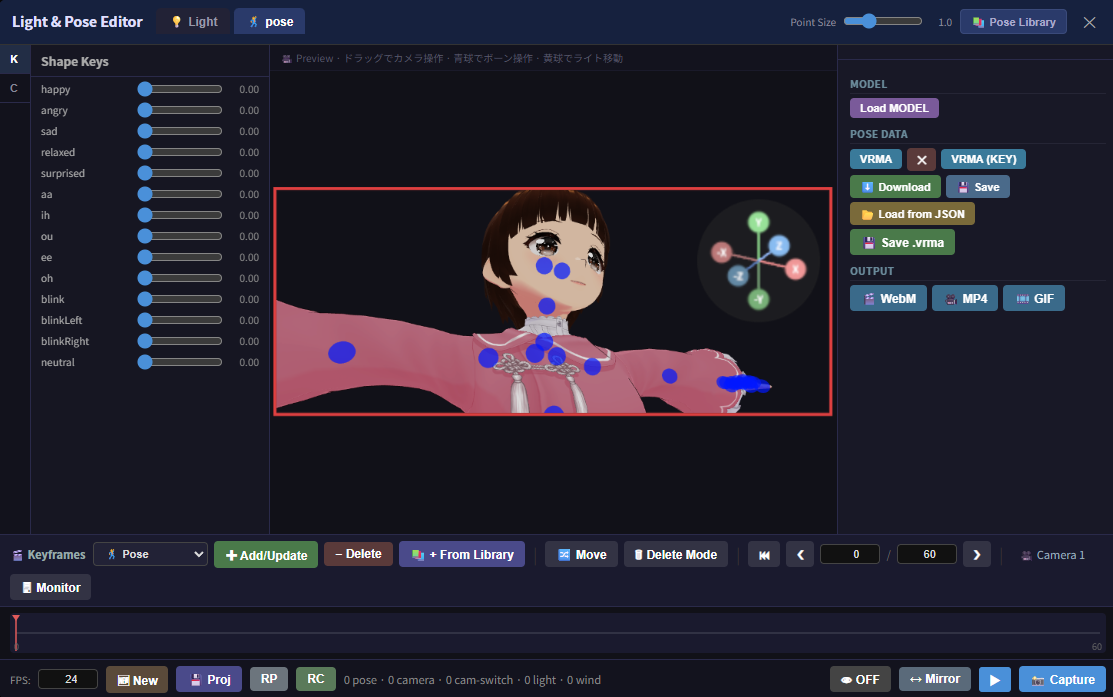
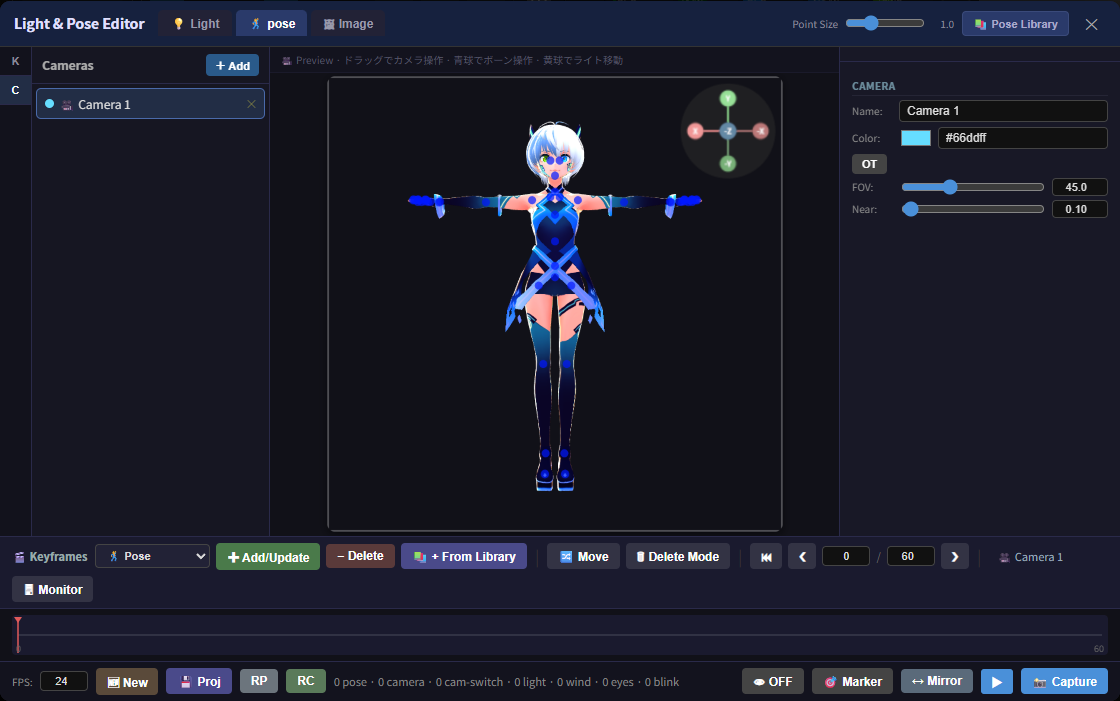
v1.50.2: Light & Pose Editor表示中の3Dプレビューずれを修正、README・スクリーンショットをvrm-pose-editor v0.21.0に合わせて更新

diff --git a/README_en.md b/README_en.md
@@ -34,7 +34,7 @@ A manga page creation SPA (single-page application) that runs on top of ComfyUI.
 - **Shape drawing (Draw)** — Draw rectangles, ellipses, lines, curves, polygons, vector curves, chains, ropes, and My Curve directly onto an SVG layer. Polygons: click to add vertices, click near the start point to close. Vector curves: click to add nodes connected by a smooth spline, click near the start point to close as a filled shape, or press Enter to commit as an open line. Fills (rectangles, ellipses, polygons, vector curves, etc.) support gradients, textures (with configurable X/Y offset that follows the shape when moved or resized), and no-fill in addition to solid colors. Converting a shape to PNG preserves these fills as well
 - **Paint tool** — A raster-brush painting feature, separate from vector shape drawing. Clicking "Add Paint" creates an image sized exactly to the selected panel/overlay/draft layer, selects it automatically, and turns Draw ON so you can start brushing right away (turning on the "Background" checkbox to its left fills it with an opaque color instead of full transparency, avoiding black backgrounds when sent to I2I). The brush works on any selected regular image too, not just newly added paint objects. Supports brush color, opacity, and size (slider), plus x5 (5x brush size) and eraser toggles whose ON/OFF state is shown by button color. **With a pen tablet, brush size and opacity automatically change with pen pressure** (mouse operation keeps the fixed size and opacity as before). Paint objects appear in the layer panel with a 🖌 icon and the name "Paint" to distinguish them from regular images. The "Merge Selected" button composites 2+ checked images/paint layers in the layer panel into a single PNG (preserving stacking order and rotation), useful for sending multiple layers combined to I2I. Useful for rough sketches to edit in the Image tab, or for creating I2I reference images
 - **Mask tool** — Add multiple mask layers to a panel, overlay, or individual object (image, balloon, text, shape, or group), of two types — hide and show — stacked and composited together. Adjust the brush (paint/erase), size, and hardness while painting, with an optional semi-transparent red preview of the hidden area. Supports bulk invert/clear/fill-all operations and per-layer temporary enable/disable. **With a pen tablet, brush size automatically changes with pen pressure** (mouse operation keeps the fixed size as before)
-- **3D pose** — Place a VRM/GLB/GLTF model inside a panel, pose it, and bake it into the image. Supports a draggable LookAt target, spring bone (hair/skirt) physics, and a breeze wind effect with a draggable wind-direction marker. Toolbar sliders adjust the camera's **FOV (10–120°) and Near clip plane (0.01–5)**. The **🎛 Editor** button opens the "Light & Pose Editor" (always starts on the Pose tab; switch between 💡Light/🕺pose at the top): the Pose tab has shape keys, a 📚 Pose Library (pick a .json/.vroidpose/.vrma pose from the `poses/` folder's thumbnails and apply it instantly; .vrma files can be previewed in a mini player and imported onto the keyframe timeline with "🔑 Load KEY"), and a keyframe timeline (switch Pose/Camera/Light/Wind tracks, scrub to any frame with the playback bar, then click "📸 Capture" to commit that exact frame's pose straight into the panel); the Light tab manages multiple lights (Sun/Point/Spot/Box/Ambient), the Ground/BG Wall, and saved presets (via [comfyui-vrm-pose-editor](#optional-dependencies))
+- **3D pose** — Place a VRM/GLB/GLTF model inside a panel, pose it, and bake it into the image. Supports a draggable LookAt target, spring bone (hair/skirt) physics, and a breeze wind effect with a draggable wind-direction marker. Toolbar sliders adjust the camera's **FOV (10–120°) and Near clip plane (0.01–5)**. The **🎛 Editor** button opens the "Light & Pose Editor" (always starts on the Pose tab; switch between 💡Light/🕺pose/🖼 Image at the top): the Pose tab has shape keys (with an Auto Blink on/off toggle and interval slider at the top of the list, for VRMs with a `blink` expression), a 📚 Pose Library (pick a .json/.vroidpose/.vrma pose from the `poses/` folder's thumbnails and apply it instantly; .vrma files can be previewed in a mini player and imported onto the keyframe timeline with "🔑 Load KEY"), and a keyframe timeline (switch Pose/Camera/Light/Wind/😑 Blink tracks, scrub to any frame with the playback bar, then click "📸 Capture" to commit that exact frame's pose straight into the panel); the Light tab manages multiple lights (Sun/Point/Spot/Box/Ambient), the Ground/BG Wall, and saved presets; the Image tab loads a picture and, with "▶ Run SAM3D", estimates the person's pose and applies it to the VRM (uses ComfyUI's native SAM 3D Body node — ComfyUI 0.38 or later, with the model installed in `models/detection/` yourself) (via [comfyui-vrm-pose-editor](#optional-dependencies); the Image tab and Auto Blink require v0.21.0 or later)
 - **3D text** — Extrude text (including Japanese), or the vector paths of an SVG file, into 3D using Three.js and bake it into the image ("Text" / "SVG" mode switch). Supports TrueType Collection (.ttc) fonts, common among Windows CJK system fonts (Yu Gothic, Meiryo, etc.). Choose between a Standard material (metalness/roughness) or Toon (MToon-compatible shading), and **set the front-face and side-face colors independently** (a separate material is applied to the geometry's front/back cap faces versus its extruded side faces). The **⚙ 3D Settings (3D Text Editor)** modal has a 3-column layout: a tab switcher for Light / Material / Camera on the left, a live preview embedded directly inside the modal in the center, and an always-visible Text panel (content, font, alignment, line height) on the right. Bevel thickness, size, and segment count can also be fine-tuned, and are automatically disabled with a warning if too large for the shape. Zoom control mode and enhanced antialiasing are shared with the 3D Pose light editor (via [comfyui-vrm-pose-editor](#optional-dependencies))
 - **Groups and layer panel** — Group objects, manage stacking order, toggle visibility, lock, and **delete with the Delete / Backspace key**. **Alt+click** the visibility icon to toggle every object of the same type (balloon, image, text, or drawn shape) across the whole page at once — all panels, the overlay, and the draft layer, including objects nested inside groups
 - **Asset registration** — The 📦 button on a group row registers the group as an SVG asset (choose a target group or create a new folder → enter a filename → register; it is reflected in the asset panel immediately). The **📦+** button at the top of the layer panel (to the left of the ↑↓ buttons) lets you register an ungrouped individual item (image, balloon, text, or drawn shape) the same way — check its box, **exactly one** at a time (checking two or more shows a message). When the single selected item is an image, it is saved directly as the image itself instead of being wrapped in an SVG group, so inserting it into a panel later doesn't create an unnecessary group. The checkbox is cleared automatically once registration finishes
@@ -183,7 +183,7 @@ Installing the following custom nodes enables the corresponding features. Nothin
 
 | Companion node | Feature enabled |
 |---|---|
-| **comfyui-vrm-pose-editor** | 3D Pose / 3D Text in the Layout tab and the Image tab |
+| **comfyui-vrm-pose-editor** | 3D Pose / 3D Text in the Layout tab and the Image tab (for a manual install, name the folder `comfyui-vrm-pose-editor`) |
 | **ComfyUI-Workflow-Studio** | I2I integration, Inpaint in the Image tab, the embedded gallery in the workflow studio tab, and sending videos (MP4) from the Gallery tab (Video tool) |
 | **comfyUI-particle-pixijs** | PixiJS FX (particle/filter effects modal) in the Layout tab's "Image" sub-tab and the Image tab |
 
@@ -228,7 +228,7 @@ See the in-app **Help** tab (available in Japanese, English, and Chinese, with s
 </p>
 <p>
   <img src="docs/17_3DPose_1.png" width="260" alt="3D Pose toolbar (🎛 Editor button)">
-  <img src="docs/17_3DPose_2.png" width="260" alt="Light & Pose Editor (Pose tab, keyframe timeline)">
+  <img src="docs/17_3DPose_2.png" width="260" alt="Light & Pose Editor (Light/pose/Image tabs, keyframe timeline)">
 </p>
 
 ## Architecture

diff --git a/README_zh.md b/README_zh.md
@@ -34,7 +34,7 @@
 - **形状绘制（绘制）** — 直接在SVG图层上绘制矩形、椭圆、直线、曲线、多边形、矢量曲线、锁链、绳索、My Curve。多边形：点击添加顶点，点击起点附近闭合；矢量曲线：点击添加节点，以平滑曲线（样条）连接，点击起点附近闭合为填充形状，或按Enter键确定为开放曲线。填充（矩形・椭圆・多边形・矢量曲线等）除纯色外还支持渐变、纹理（可指定X/Y位置偏移，会随形状的移动/缩放一起跟随）和无填充。图形转换为PNG时这些填充也会一并保留
 - **绘画工具** — 与矢量图形绘制完全独立的光栅画笔功能。点击"添加绘画"会按所选分格/覆盖层/草稿层的尺寸创建图像，自动选中并开启绘制ON，可立即用画笔绘制（开启左侧的"背景色"复选框可改为创建指定颜色填充的不透明图像，避免发送到I2I时背景变黑）。画笔不仅可用于新添加的绘画对象，也可直接在当前选中的任意普通图像上绘制。支持画笔颜色、不透明度、大小（滑块），以及x5（5倍画笔大小）和橡皮擦的ON/OFF切换按钮（通过颜色明确显示状态）。**使用数位板时，画笔大小和不透明度会根据笔压自动变化**（鼠标操作时与以往一样保持固定）。绘画对象在图层面板中以🖌图标和"绘画"名称显示，与普通图像区分开。"统合选中图像"按钮可将图层面板中勾选的2个以上图像/绘画对象合成为一张PNG（保留叠放顺序和旋转），便于将多个图层合并后发送到I2I。可用于Image标签中绘制・编辑的草图，或制作I2I参考图像
 - **蒙版工具** — 可为分格、覆盖层或单个对象（图像、对话气泡、文字、图形、分组）叠加多个蒙版图层并合成，分为"隐藏"和"显示"两种类型。涂抹时可调整画笔（涂抹/擦除）、大小、硬度，并可将隐藏区域以半透明红色预览。支持反转/清除/全部涂抹的批量操作，以及按图层临时启用/禁用。**使用数位板时，画笔大小会根据笔压自动变化**（鼠标操作时与以往一样保持固定）
-- **3D姿势** — 在分格内放置 VRM/GLB/GLTF 模型并摆姿势后烘焙到图像中，支持可拖动的视线目标追踪、摇动骨骼（头发/裙子）物理效果，以及带可拖动风向标记的微风效果。工具栏的滑块可调整相机的**FOV（视场角，10～120°）・Near（近裁剪面，0.01～5）**。**🎛 Editor** 按钮用于打开"Light & Pose Editor"（始终从Pose标签开始，可在顶部切换💡Light/🕺pose标签）：Pose标签包含形态键、📚 Pose Library（从`poses/`文件夹的缩略图中选择.json/.vroidpose/.vrma姿势并立即应用；.vrma文件可在迷你播放器中预览，并通过"🔑 Load KEY"导入到关键帧时间线）以及关键帧时间线（切换Pose/Camera/Light/Wind轨道，用播放条拖动到任意帧后点击"📸 Capture"即可将该帧的姿势直接确定到分格）；Light标签用于管理多个灯光（Sun/Point/Spot/Box/Ambient）、Ground/BG Wall以及预设的保存（通过 [comfyui-vrm-pose-editor](#可选依赖) 联动）
+- **3D姿势** — 在分格内放置 VRM/GLB/GLTF 模型并摆姿势后烘焙到图像中，支持可拖动的视线目标追踪、摇动骨骼（头发/裙子）物理效果，以及带可拖动风向标记的微风效果。工具栏的滑块可调整相机的**FOV（视场角，10～120°）・Near（近裁剪面，0.01～5）**。**🎛 Editor** 按钮用于打开"Light & Pose Editor"（始终从Pose标签开始，可在顶部切换💡Light/🕺pose/🖼 Image标签）：Pose标签包含形态键（列表开头有自动眨眼 Auto Blink 的开关与间隔滑块，适用于带 `blink` 表情的 VRM）、📚 Pose Library（从`poses/`文件夹的缩略图中选择.json/.vroidpose/.vrma姿势并立即应用；.vrma文件可在迷你播放器中预览，并通过"🔑 Load KEY"导入到关键帧时间线）以及关键帧时间线（切换Pose/Camera/Light/Wind/😑 Blink轨道，用播放条拖动到任意帧后点击"📸 Capture"即可将该帧的姿势直接确定到分格）；Light标签用于管理多个灯光（Sun/Point/Spot/Box/Ambient）、Ground/BG Wall以及预设的保存；Image标签可读取图片，点击"▶ Run SAM3D"推定人物姿势并应用到 VRM（使用 ComfyUI 本体的 SAM 3D Body 节点，需 ComfyUI 0.38 及以上，模型需自行放入 `models/detection/`）（通过 [comfyui-vrm-pose-editor](#可选依赖) 联动，Image标签与自动眨眼需 v0.21.0 及以上）
 - **3D文字** — 使用Three.js将包含日文在内的文字、或SVG文件的矢量路径立体挤出后烘焙到图像中（"文字""SVG"模式切换），支持TrueType Collection（.ttc，游黑体・Meiryo等Windows标准CJK字体常见格式）。材质可从标准（金属度・粗糙度）或卡通（兼容MToon的着色）中选择，并可**分别指定表面色与侧面色**（对几何体的正反面盖面与挤出侧面分别应用不同材质）。**⚙ 3D设置（3D Text Editor）**弹窗采用三栏布局：左侧为灯光／材质／相机标签切换面板，中央为直接嵌入弹窗的实时预览，右侧为常驻显示的文字面板（内容・字体・对齐・行距）。倒角的厚度・大小・分段数也可细致调整，若相对于形状过大会自动禁用并显示警告。缩放操作模式与增强抗锯齿与3D姿势的灯光编辑器共用设置（通过 [comfyui-vrm-pose-editor](#可选依赖) 联动）
 - **分组功能与图层面板** — 对象分组、层叠顺序管理、显示切换、锁定，以及**通过 Delete / Backspace 键删除**。**Alt+点击**显示/隐藏图标，可将与点击对象相同种类（对话气泡／图像／文字／绘制图形）的对象，在整个页面范围内（所有分格・覆盖层・草稿图层，含分组内的子对象）一并切换显示/隐藏
 - **素材登记** — 分组行的 📦 按钮可将分组注册为 SVG 素材（选择目标分组或新建文件夹→输入文件名→注册，会立即反映到素材面板）。图层面板上部的 **📦+** 按钮（位于↑↓按钮左侧）可用同样的方式登记未成组的独立项目（图像・对话气泡・文字・绘制图形）——通过复选框只选中**1个**（勾选2个以上时会提示只选择1个）。若所选的1个项目是图像，则不会用SVG分组包装，而是直接保存图像本身，避免插入到分格时生成多余的分组。登记完成后对应的复选框会自动取消勾选
@@ -183,7 +183,7 @@ NANOBANANA_API_KEY=你的API密钥
 
 | 联动节点 | 启用的功能 |
 |---|---|
-| **comfyui-vrm-pose-editor** | 排版标签・Image标签的 3D姿势／3D文字 |
+| **comfyui-vrm-pose-editor** | 排版标签・Image标签的 3D姿势／3D文字（手动安装时请将文件夹命名为 `comfyui-vrm-pose-editor`） |
 | **ComfyUI-Workflow-Studio** | I2I联动、Image标签的Inpaint、workflow studio标签的嵌入式图库、从图库标签发送视频（MP4，视频工具） |
 | **comfyUI-particle-pixijs** | 排版标签"图像"子标签及Image标签的 PixiJS FX（粒子・滤镜效果弹窗） |
 
@@ -228,7 +228,7 @@ NANOBANANA_API_KEY=你的API密钥
 </p>
 <p>
   <img src="docs/17_3DPose_1.png" width="260" alt="3D姿势工具栏（🎛 Editor 按钮）">
-  <img src="docs/17_3DPose_2.png" width="260" alt="Light & Pose Editor（Pose标签、关键帧时间线）">
+  <img src="docs/17_3DPose_2.png" width="260" alt="Light & Pose Editor（Light/pose/Image标签、关键帧时间线）">
 </p>
 
 ## 架构

diff --git a/DEVLOG.md b/DEVLOG.md
@@ -2,9 +2,9 @@
 
 ---
 
-## 2026-10-05（3Dポーズ: Light & Pose Editor表示中にプレビューが枠外へずれる不具合を修正、配信元をリポジトリへのリンクに変更）
+## 2026-10-05（3Dポーズ: Light & Pose Editor表示中にプレビューが枠外へずれる不具合を修正、配信元をリポジトリへのリンクに変更、v1.50.2）
 
-comfyui-vrm-pose-editor側の機能追加（Imageタブ＝画像からSAM 3D Bodyでポーズ推定、自動瞬き等）に合わせてレイアウトタブ「3Dポーズ」との連携を確認したところ、CC側の不具合が見つかったため修正した。版数は上げていない（次のリリースにまとめる）。
+comfyui-vrm-pose-editor側の機能追加（Imageタブ＝画像からSAM 3D Bodyでポーズ推定、自動瞬き等）に合わせてレイアウトタブ「3Dポーズ」との連携を確認したところ、CC側の不具合が見つかったため修正した。
 
 **不具合**: 「Editor」でLight & Pose Editorを開くと、3Dビューのラッパー（`state.pose3d.wrapper`）はvrm-pose-editor側（`light_editor.js`）によってモーダル内のプレビュー枠へDOM移動され、`left/top`を0にリセットして`transform: scale()`で表示される（Pose Libraryも同じ方式で借りる）。ところがCC側の`_pose3dSyncPosition`は貸し出し中かどうかを見ずに、コマ用の`left/top/width/height`を書き込んでいた。`ResizeObserver`（`#layout-preview`とSVGを監視）がウィンドウサイズや表示倍率の変化で発火すると、モーダル内のキャンバスがコマの位置（例: `left: 399px`）へ飛び、プレビュー枠の外（右のプロパティ欄の下）に隠れて見えなくなった。さらに`07-pages.js`のページ再描画と「再描画」ボタンは、ラッパーが`#layout-preview`に無ければ無条件で`appendChild`して戻すため、モーダルでCapture（コマに確定）→コマへの画像挿入→ページ再描画の流れで、モーダルからキャンバスを奪い返すおそれがあった。
 
@@ -13,6 +13,8 @@ comfyui-vrm-pose-editor側の機能追加（Imageタブ＝画像からSAM 3D Bod
 **配信元の変更**: これまでComfyUI_5の`custom_nodes/comfyui-comic-creator`はリポジトリとは別のgitクローン（v1.49.0）で、変更を確認するたびにファイルをコピーしていた。今回、リポジトリ（`eagle_comic_creator_spa/comfyui-comic-creator`）への相対パスのシンボリックリンクに置き換えた（ユーザーが実施）。vrm-pose-editorも、CCの`pose3d.js`が`/extensions/comfyui-vrm-pose-editor/`固定でimportするため、ComfyUI_5では`custom_nodes/comfyui-vrm-pose-editor`という名前のリンクにした（それまでの`3dpose_light_editor`という名前では404になり、3Dポーズ機能が使えなかった）。
 
 **実機確認（Kapture、ComfyUI_5、回避策なし）**: モデル読込→コマに配置→Editor→Imageタブで画像からSAM3D推定・適用（7.1秒）→CaptureでコマにCapture画像を確定、まで通ることを確認した。Editorを開いたまま`#layout-preview`の幅を変えてResizeObserverを発火させても、ラッパーはモーダル内で`left: 0`のままプレビュー枠に収まる。Capture（コマに確定）後もラッパーはモーダル内に残る。閉じると`#layout-preview`へ戻り、途中で変わった表示倍率（80%→70%）に合わせた位置（`left` 482.8px→493.7px）に合わせ直された。
+
+**README（ja/en/zh）**: vrm-pose-editor v0.21.0のリリースに合わせ、3Dポーズの項にImageタブ（SAM 3D Bodyでのポーズ推定。ComfyUI 0.38以降、モデルは`models/detection/`に各自導入）・自動瞬き（Auto Blink）・😑 Blinkトラックを追記し、Image タブと自動瞬きにはv0.21.0以降が必要と明記した。依存関係の表に、手動インストール時はフォルダ名を`comfyui-vrm-pose-editor`にする旨を追加。スクリーンショット`docs/17_3DPose_2.png`をvrm-pose-editor側の`docs/2_screenshot_pose_editor_c.png`（Light/pose/Imageタブ）に差し替えた。
 
 **How to apply**:
 - 3Dビューのラッパーの位置・サイズや親要素を変える処理を足すときは、先に`_pose3dIsBorrowed()`を確認する（モーダルに貸し出し中に触ると、vrm-pose-editor側のプレビューを壊す）。
